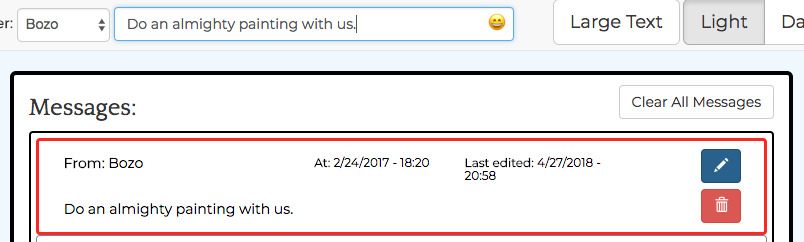
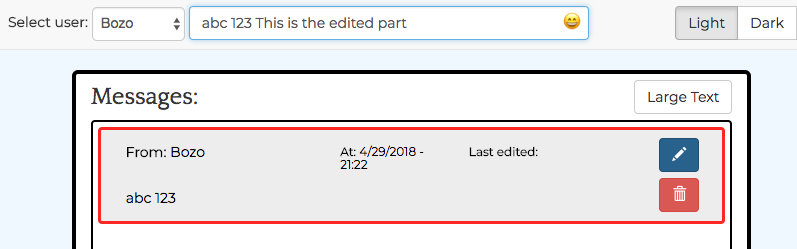
updated screenshots and fixed navbar

Changed region(s): [[0.0, 0.2603, 0.9937, 1.0], [0.0, 0.0, 1.0, 0.2025]]

diff --git a/styles/main.css b/styles/main.css
@@ -30,7 +30,7 @@ span, label, form, ul {
 
 #chat-entry {
   padding-right: 30px;
-}  
+}
 
 @media (min-width: 868px) {
   #chat-entry {
@@ -43,7 +43,7 @@ span, label, form, ul {
     width: 400px;
   }
 }
-  
+
 @media (min-width: 1068px) {
   #chat-entry {
     width: 500px;
@@ -123,6 +123,7 @@ span, label, form, ul {
 
 #myModal {
   z-index: 998;
+  margin-top: 55px;
 }
 
 .modal-backdrop {
